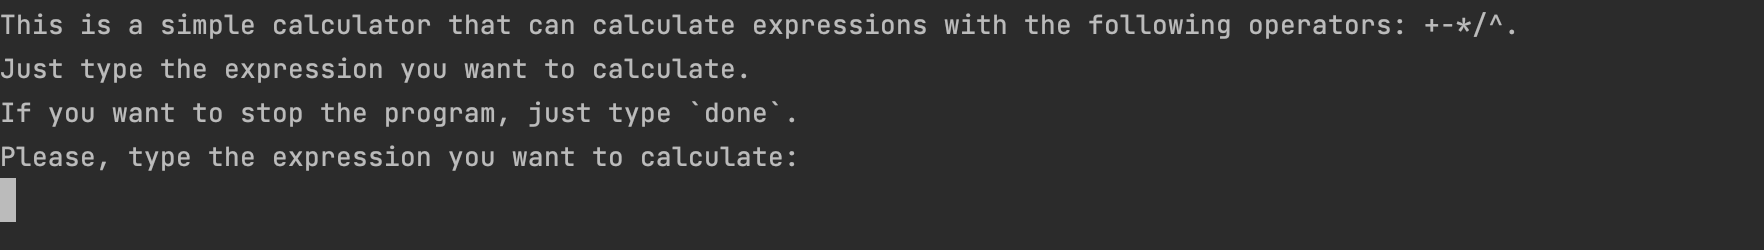
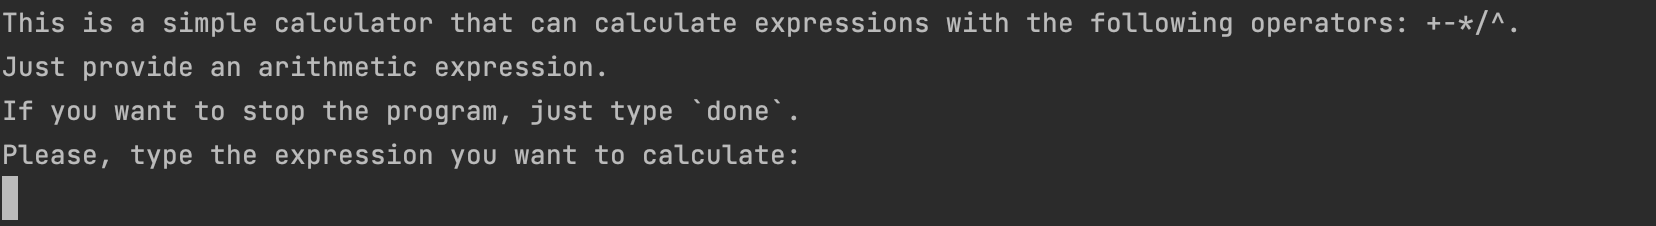
fix text

diff --git a/main.py b/main.py
@@ -10,8 +10,8 @@ def run_calculation():
     calculator = SimpleCalculator()
     sys.stdout.write(
         'This is a simple calculator that can calculate expressions'
-        ' with the following operators: +-*/^.\nJust type '
-        'the expression you want to calculate.\nIf you want to stop '
+        ' with the following operators: +-*/^.\nJust provide '
+        'an arithmetic expression.\nIf you want to stop '
         'the program, just type `done`.\n')
     # status `run` till `done` provided as an input
     run = True
